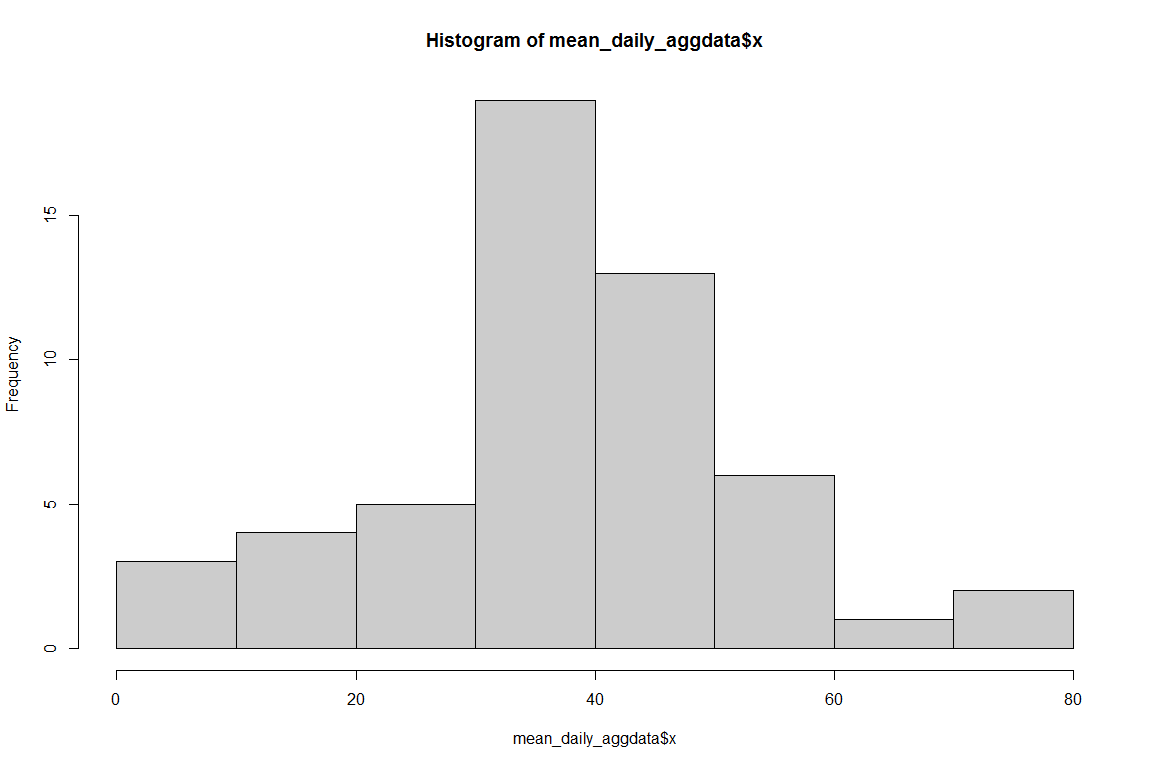
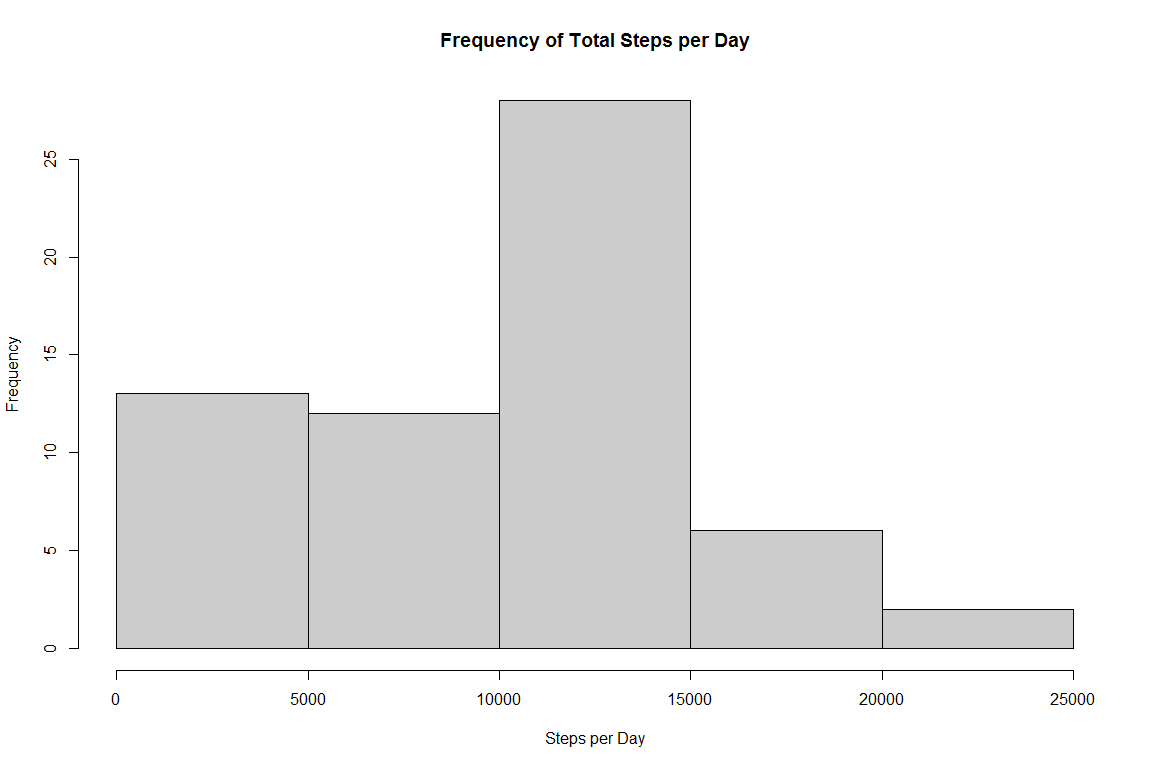
more bug fixes

diff --git a/PA1_template.html b/PA1_template.html
@@ -68,19 +68,19 @@ img {
 <h2>Loading and preprocessing the data</h2>
 <pre class="r"><code>act &lt;- read.csv(&quot;activity.csv&quot;)
 
-mean_daily_aggdata &lt;- aggregate(act$steps, by=list(act$date), FUN=mean, na.rm=TRUE)</code></pre>
+mean_daily_aggdata &lt;- aggregate(act$steps, by=list(act$date), FUN=sum, na.rm=TRUE)</code></pre>
 <pre class="r"><code>mean_interval_aggdata &lt;- aggregate(act$steps, by=list(act$interval), FUN=mean, na.rm=TRUE)</code></pre>
 </div>
 <div id="what-is-mean-total-number-of-steps-taken-per-day" class="section level2">
 <h2>What is mean total number of steps taken per day?</h2>
 <p>Here is a histogram of the number of steps taken each day:</p>
-<pre class="r"><code>hist(mean_daily_aggdata$x, col=&quot;grey80&quot;)</code></pre>
[1 lines of base64/hex data omitted]
+<pre class="r"><code>hist(mean_daily_aggdata$x, col=&quot;grey80&quot;, xlab=&quot;Steps per Day&quot;, main=&quot;Frequency of Total Steps per Day&quot;)</code></pre>
[1 lines of base64/hex data omitted]
 <p>Here is the mean and median of the number of steps taken each day:</p>
 <pre class="r"><code>mean(mean_daily_aggdata$x, na.rm=TRUE)</code></pre>
-<pre><code>## [1] 37.3826</code></pre>
+<pre><code>## [1] 9354.23</code></pre>
 <pre class="r"><code>median(mean_daily_aggdata$x, na.rm = TRUE)</code></pre>
-<pre><code>## [1] 37.37847</code></pre>
+<pre><code>## [1] 10395</code></pre>
 </div>
 <div id="what-is-the-average-daily-activity-pattern" class="section level2">
 <h2>What is the average daily activity pattern?</h2>
@@ -100,14 +100,14 @@ mean_daily_aggdata &lt;- aggregate(act$steps, by=list(act$date), FUN=mean, na.rm
 <p>One strategy for filling in a value for these NAs is the global mean. Here is one way to do that:</p>
 <pre class="r"><code>act$steps[is.na(act$steps)] = mean(act$steps, na.rm=TRUE)</code></pre>
 <p>Now that we have inputed values for NAs into the dataset, here is the new histogram:</p>
-<pre class="r"><code>mean_daily_aggdata &lt;- aggregate(act$steps, by=list(act$date), FUN=mean, na.rm=TRUE)
+<pre class="r"><code>mean_daily_aggdata &lt;- aggregate(act$steps, by=list(act$date), FUN=sum, na.rm=TRUE)
 
 hist(mean_daily_aggdata$x, col=&quot;grey80&quot;)</code></pre>
[2 lines of base64/hex data omitted]
 <pre class="r"><code>mean(mean_daily_aggdata$x, na.rm=TRUE)</code></pre>
-<pre><code>## [1] 37.3826</code></pre>
+<pre><code>## [1] 10766.19</code></pre>
 <pre class="r"><code>median(mean_daily_aggdata$x, na.rm = TRUE)</code></pre>
-<pre><code>## [1] 37.3826</code></pre>
+<pre><code>## [1] 10766.19</code></pre>
 <p>The mean does not change because we added over 2000 values to the dataset that are all exactly the mean, The median changes to the mean, again because we added so many centrally-located values to the dataset, there is a strong chance that the median would become the aadded value, which is the mean in this case.</p>
 </div>
 <div id="are-there-differences-in-activity-patterns-between-weekdays-and-weekends" class="section level2">

diff --git a/PA1_template.md b/PA1_template.md
@@ -6,7 +6,7 @@
 ```r
 act <- read.csv("activity.csv")
 
-mean_daily_aggdata <- aggregate(act$steps, by=list(act$date), FUN=mean, na.rm=TRUE)
+mean_daily_aggdata <- aggregate(act$steps, by=list(act$date), FUN=sum, na.rm=TRUE)
 ```
 
 
@@ -18,7 +18,7 @@ mean_interval_aggdata <- aggregate(act$steps, by=list(act$interval), FUN=mean, n
 Here is a histogram of the number of steps taken each day:
 
 ```r
-hist(mean_daily_aggdata$x, col="grey80")
+hist(mean_daily_aggdata$x, col="grey80", xlab="Steps per Day", main="Frequency of Total Steps per Day")
 ```
 
 ![](instructions_fig/unnamed-chunk-3-1.png) 
@@ -30,7 +30,7 @@ mean(mean_daily_aggdata$x, na.rm=TRUE)
 ```
 
 ```
-## [1] 37.3826
+## [1] 9354.23
 ```
 
 ```r
@@ -38,7 +38,7 @@ median(mean_daily_aggdata$x, na.rm = TRUE)
 ```
 
 ```
-## [1] 37.37847
+## [1] 10395
 ```
 
 ## What is the average daily activity pattern?
@@ -83,7 +83,7 @@ act$steps[is.na(act$steps)] = mean(act$steps, na.rm=TRUE)
 Now that we have inputed values for NAs into the dataset, here is the new histogram:
 
 ```r
-mean_daily_aggdata <- aggregate(act$steps, by=list(act$date), FUN=mean, na.rm=TRUE)
+mean_daily_aggdata <- aggregate(act$steps, by=list(act$date), FUN=sum, na.rm=TRUE)
 
 hist(mean_daily_aggdata$x, col="grey80")
 ```
@@ -95,7 +95,7 @@ mean(mean_daily_aggdata$x, na.rm=TRUE)
 ```
 
 ```
-## [1] 37.3826
+## [1] 10766.19
 ```
 
 ```r
@@ -103,7 +103,7 @@ median(mean_daily_aggdata$x, na.rm = TRUE)
 ```
 
 ```
-## [1] 37.3826
+## [1] 10766.19
 ```
 
 The mean does not change because we added over 2000 values to the dataset that are all exactly the mean,  The median changes to the mean, again because we added so many centrally-located values to the dataset, there is a strong chance that the median would become the aadded value, which is the mean in this case.
